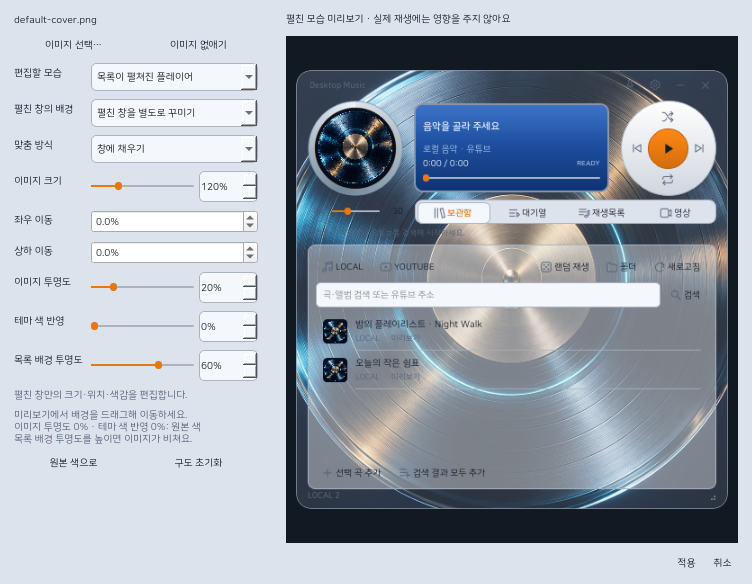
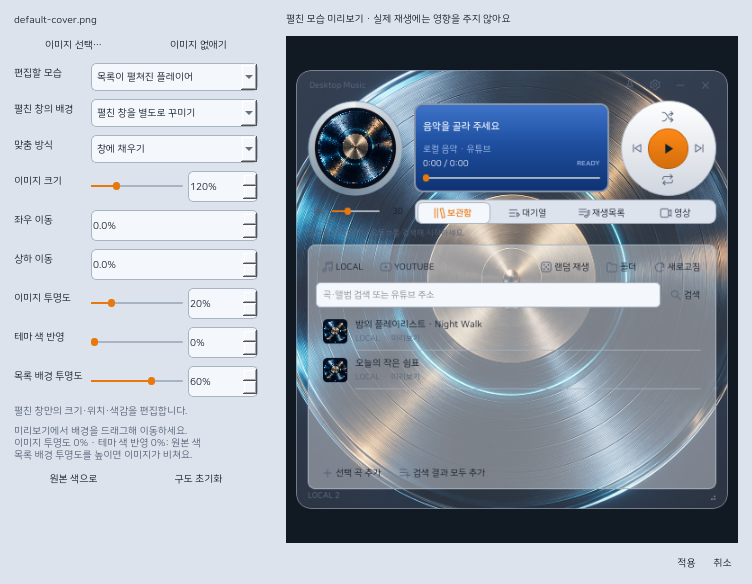
Preserve header image framing while closing and fix numeric field clipping

Changed region(s): [[0.0, 0.3082, 0.367, 0.8322]]

diff --git a/src/desktop_music_player/app.py b/src/desktop_music_player/app.py
@@ -273,10 +273,11 @@ class Window(QMainWindow):
             geometry=[(0,e,e,h-2*e),(w-e,e,e,h-2*e),(e,0,w-2*e,e),(e,h-e,w-2*e,e),(0,0,e,e),(w-e,0,e,e),(0,h-e,e,e),(w-e,h-e,e,e)]
             for handle,rect in zip(self.resize_handles,geometry):handle.setGeometry(*rect);handle.show();handle.raise_()
     def resizeEvent(self,event):
-        super().resizeEvent(event);self.layout_surface()
+        super().resizeEvent(event)
         if hasattr(self,'expanded') and self.expanded and not self._transitioning:
             self.saved_height=max(self.px(MIN_PANEL_HEIGHT),self.height()-self.px(EXPANDED_BASE));self.compact_height=min(self.compact_height,self.height())
         elif hasattr(self,'expanded') and not self.expanded and not self._transitioning:self.compact_height=max(self.px(COMPACT_HEIGHT),self.height())
+        self.layout_surface()
     def expand(self,name):
         tab=next((n for n in range(self.tabs.count()) if self.tabs.tabText(n)==name),0)
         close=self.expanded and self.tabs.currentIndex()==tab
@@ -425,7 +426,7 @@ class Window(QMainWindow):
             if isinstance(delegate,TrackDelegate):delegate.theme=t
             view.viewport().update()
         dark=QColor(t['panel']).lightness()<120;foreground='#081016' if QColor(t['accent']).lightness()>130 else '#FFFFFF'
-        base_style=f'''QWidget{{font-family:'NanumSquareRound','Malgun Gothic','Segoe UI Symbol';font-size:12px;color:{t['text']};}} QMainWindow,QDialog{{background:{t['bg']};}} QLabel{{background:transparent;}} QLabel#brand{{font-size:11px;font-weight:700;color:{t['muted']};}} QLabel#muted,QLabel#status{{color:{t['muted']};}} QLabel#status{{font-size:11px;}} QLabel#trackTitle{{font-size:14px;font-weight:700;}} QLabel#time{{font-family:'NanumSquareRound','Malgun Gothic';font-size:12px;}} QLabel#badge{{font-size:10px;font-weight:700;color:{t['muted']};}} QFrame#lcd{{background:{t['panel']};border:1px solid {t['border']};border-radius:10px;}} QFrame#pad{{background:qlineargradient(x1:0,y1:0,x2:0,y2:1,stop:0 {QColor(t['panel']).lighter(108).name()},stop:1 {QColor(t['bg']).darker(106).name()});border:1px solid {t['border']};border-radius:66px;}} QFrame#drawer{{background:{t['panel']};border:1px solid {t['border']};border-radius:10px;}} QPushButton{{background:transparent;border:1px solid transparent;border-radius:7px;padding:4px 6px;}} QPushButton:hover{{background:{t['panel']};border-color:{t['border']};}} QPushButton[iconOnly="true"]:hover{{border-color:transparent;}} QPushButton[keyboardFocus="true"]:focus{{border:1px solid {t['accent']};}} QPushButton[active="true"]{{color:{t['accent']};font-weight:700;}} QPushButton#play{{background:qlineargradient(x1:0,y1:0,x2:0,y2:1,stop:0 {QColor(t['accent']).lighter(114).name()},stop:1 {QColor(t['accent']).darker(110).name()});border:1px solid {QColor(t['accent']).darker(125).name()};border-radius:28px;}} QPushButton#play:pressed{{background:{QColor(t['accent']).darker(118).name()};}} QLineEdit,QComboBox,QSpinBox{{background:{t['panel']};border:1px solid {t['border']};border-radius:6px;padding:6px;}} QListView{{background:transparent;border:0;outline:0;}} QListView::item{{padding:7px 9px;border-bottom:1px solid {t['border']};}} QListView::item:selected{{background:{t['bg']};color:{t['text']};border-left:3px solid {t['accent']};}} QTabWidget::pane{{border:0;}} QTabBar::tab{{background:transparent;padding:8px 10px;color:{t['muted']};border-bottom:2px solid transparent;}} QTabBar::tab:selected{{color:{t['text']};border-bottom:2px solid {t['accent']};}} QSlider::groove:horizontal{{height:3px;background:{t['border']};border-radius:1px;}} QSlider::sub-page:horizontal{{background:{t['accent']};}} QSlider::handle:horizontal{{background:{t['accent']};width:9px;margin:-4px 0;border-radius:4px;}} QScrollBar:vertical{{background:transparent;width:7px;}} QScrollBar::handle:vertical{{background:{t['border']};border-radius:3px;min-height:24px;}} QScrollBar::add-line:vertical,QScrollBar::sub-line:vertical{{height:0;}} QMenu{{background:{t['panel']};padding:5px;}}'''
+        base_style=f'''QWidget{{font-family:'NanumSquareRound','Malgun Gothic','Segoe UI Symbol';font-size:12px;color:{t['text']};}} QMainWindow,QDialog{{background:{t['bg']};}} QLabel{{background:transparent;}} QLabel#brand{{font-size:11px;font-weight:700;color:{t['muted']};}} QLabel#muted,QLabel#status{{color:{t['muted']};}} QLabel#status{{font-size:11px;}} QLabel#trackTitle{{font-size:14px;font-weight:700;}} QLabel#time{{font-family:'NanumSquareRound','Malgun Gothic';font-size:12px;}} QLabel#badge{{font-size:10px;font-weight:700;color:{t['muted']};}} QFrame#lcd{{background:{t['panel']};border:1px solid {t['border']};border-radius:10px;}} QFrame#pad{{background:qlineargradient(x1:0,y1:0,x2:0,y2:1,stop:0 {QColor(t['panel']).lighter(108).name()},stop:1 {QColor(t['bg']).darker(106).name()});border:1px solid {t['border']};border-radius:66px;}} QFrame#drawer{{background:{t['panel']};border:1px solid {t['border']};border-radius:10px;}} QPushButton{{background:transparent;border:1px solid transparent;border-radius:7px;padding:4px 6px;}} QPushButton:hover{{background:{t['panel']};border-color:{t['border']};}} QPushButton[iconOnly="true"]:hover{{border-color:transparent;}} QPushButton[keyboardFocus="true"]:focus{{border:1px solid {t['accent']};}} QPushButton[active="true"]{{color:{t['accent']};font-weight:700;}} QPushButton#play{{background:qlineargradient(x1:0,y1:0,x2:0,y2:1,stop:0 {QColor(t['accent']).lighter(114).name()},stop:1 {QColor(t['accent']).darker(110).name()});border:1px solid {QColor(t['accent']).darker(125).name()};border-radius:28px;}} QPushButton#play:pressed{{background:{QColor(t['accent']).darker(118).name()};}} QLineEdit,QComboBox,QAbstractSpinBox{{background:{t['panel']};border:1px solid {t['border']};border-radius:6px;padding:6px;}} QAbstractSpinBox QLineEdit{{background:transparent;border:0;border-radius:0;padding:0;}} QListView{{background:transparent;border:0;outline:0;}} QListView::item{{padding:7px 9px;border-bottom:1px solid {t['border']};}} QListView::item:selected{{background:{t['bg']};color:{t['text']};border-left:3px solid {t['accent']};}} QTabWidget::pane{{border:0;}} QTabBar::tab{{background:transparent;padding:8px 10px;color:{t['muted']};border-bottom:2px solid transparent;}} QTabBar::tab:selected{{color:{t['text']};border-bottom:2px solid {t['accent']};}} QSlider::groove:horizontal{{height:3px;background:{t['border']};border-radius:1px;}} QSlider::sub-page:horizontal{{background:{t['accent']};}} QSlider::handle:horizontal{{background:{t['accent']};width:9px;margin:-4px 0;border-radius:4px;}} QScrollBar:vertical{{background:transparent;width:7px;}} QScrollBar::handle:vertical{{background:{t['border']};border-radius:3px;min-height:24px;}} QScrollBar::add-line:vertical,QScrollBar::sub-line:vertical{{height:0;}} QMenu{{background:{t['panel']};padding:5px;}}'''
         lcd_colors={'silver_blue':('#2B66C4','#0F3373','#EEF5FF','#A9C3EA','#8A97AA'),'midnight':('#10284F','#07132A','#DCE9FF','#8FA6CC','#243E62'),'warm_cream':('#3C6E86','#1C3B4B','#F6EEDF','#BFD3D9','#819A9E'),'visualizer':('#06191D','#020A0C','#E6FFF7','#86A8A0','#224B45')}
         a,b,text,muted,border=lcd_colors[t['id']]
         lcd_style=f"QFrame#lcd{{background:qlineargradient(x1:0,y1:0,x2:0,y2:1,stop:0 {a},stop:1 {b});border:2px solid {border};border-radius:12px;}} QFrame#lcd QLabel{{color:{text};}} QFrame#lcd QLabel#muted,QFrame#lcd QLabel#badge{{color:{muted};}}"

diff --git a/tests/test_background.py b/tests/test_background.py
@@ -44,4 +44,23 @@ class BackgroundTests(unittest.TestCase):
   surface=Surface();surface.resize(200,120);surface.set_theme({'bg':'#26374a','border':'#26374a'});values={**BACKGROUND_DEFAULTS,'background':str(self.image),'background_opacity':1,'background_tint':0};surface.configure_background(values);surface.show();QTest.qWait(20)
   def center():return surface.grab().toImage().pixelColor(100,60)
   self.assertEqual(center().name(),'#e53b28');values['background_tint']=1;surface.configure_background(values);self.assertEqual(center().name(),'#26374a');values['background_tint']=0;values['background_opacity']=0;surface.configure_background(values);self.assertNotEqual(center().name(),'#e53b28');surface.hide();surface.deleteLater()
+ def test_header_crop_is_stable_during_open_close_and_rapid_reversal(self):
+  w=self.w;image=QImage(240,360,QImage.Format_RGB32)
+  for y in range(360):
+   for x in range(240):image.setPixelColor(x,y,QColor(y%255,x%255,90))
+  image.save(str(self.image));w.config.update(background=str(self.image),background_opacity=1,background_expanded_mode='header',background_zoom=1.3,background_x=.1,background_y=-.1);w.apply_background(w.config)
+  points=[(170,30),(170,65),(170,100)]
+  def sample():
+   image=w.surface.cached_background.toImage();return [image.pixelColor(x,y).rgba() for x,y in points]
+  baseline=sample()
+  for _ in range(2):
+   w.expand('보관함');self.assertEqual(sample(),baseline)
+   for _ in range(12):QTest.qWait(20);self.assertEqual(sample(),baseline)
+   w.expand('보관함');self.assertEqual(sample(),baseline)
+   for _ in range(12):QTest.qWait(20);self.assertEqual(sample(),baseline)
+  w.expand('보관함');QTest.qWait(45);w.expand('보관함');QTest.qWait(40);w.expand('보관함');w.finish_transition();self.assertEqual(sample(),baseline)
+ def test_header_reference_follows_direct_compact_height_resize(self):
+  w=self.w;w.config.update(background=str(self.image),background_expanded_mode='header');w.apply_background(w.config);w.resize(w.width(),w.height()+60);QTest.qWait(25)
+  self.assertEqual(w.surface.compact_reference,w.compact_height);self.assertEqual(w.compact_height,w.height())
+  before=w.surface.compact_reference;w.expand('보관함');QTest.qWait(30);w.expand('보관함');w.finish_transition();self.assertEqual(w.surface.compact_reference,before)
 if __name__=='__main__':unittest.main()

diff --git a/tests/test_appearance_layout.py b/tests/test_appearance_layout.py
@@ -1,0 +1,30 @@
+import os,sys,tempfile,unittest
+from pathlib import Path
+os.environ['QT_QPA_PLATFORM']='offscreen'
+sys.path.insert(0,str(Path(__file__).resolve().parents[1]/'src'))
+from PySide6.QtWidgets import QApplication,QAbstractSpinBox,QStyle,QStyleOptionFrame
+from PySide6.QtTest import QTest
+from desktop_music_player.app import Window,configure_fonts
+from desktop_music_player.storage import Store
+from desktop_music_player.settings_editor import SettingsEditor
+from desktop_music_player.background_editor import BackgroundEditor
+class AppearanceLayoutTests(unittest.TestCase):
+ @classmethod
+ def setUpClass(cls):cls.app=QApplication.instance() or QApplication([]);configure_fonts()
+ def test_numeric_text_fits_at_dialog_scales_and_all_themes(self):
+  with tempfile.TemporaryDirectory() as temp:
+   w=Window(Store(temp),demo=True);w.show();QTest.qWait(25)
+   for factor in (.5,.8,1,1.5):
+    w.set_ui_scale(factor,persist=False)
+    for theme in w.themes:
+     w.config['theme']=theme['id'];w.apply_theme()
+     for editor in (SettingsEditor,BackgroundEditor):
+      d=editor(w);d.show();QTest.qWait(15)
+      for spin in d.findChildren(QAbstractSpinBox):
+       if spin.window()!=d:continue
+       spin.setValue(spin.maximum());spin.ensurePolished();edit=spin.lineEdit();option=QStyleOptionFrame();option.initFrom(edit);contents=edit.style().subElementRect(QStyle.SE_LineEditContents,option,edit);m=edit.textMargins();metrics=edit.fontMetrics()
+       for value in (spin.minimum(),spin.maximum()):
+        spin.setValue(value);text=spin.text();self.assertGreaterEqual(contents.width()-m.left()-m.right(),metrics.horizontalAdvance(text)+2,(factor,theme['id'],text,contents))
+       self.assertGreaterEqual(contents.height()-m.top()-m.bottom(),metrics.height(),(factor,theme['id'],spin.text(),contents))
+      d.reject();d.deleteLater();QTest.qWait(15)
+   w.engine.stop();w.hide();w.deleteLater();QTest.qWait(25)

diff --git a/src/desktop_music_player/widgets.py b/src/desktop_music_player/widgets.py
@@ -60,7 +60,9 @@ class Surface(QWidget):
         if self.width()<=0 or self.height()<=0:return
         values=dict(self.background);expanded_mode=values.get('background_expanded_mode','follow')
         if self.expanded_view and expanded_mode=='custom':values.update(values.get('background_expanded') or {})
-        rh=self.compact_reference if self.expanded_view and expanded_mode=='header' else self.height()
+        # Closing flips expanded_view before the height animation finishes.
+        # Header framing must keep the compact reference in both directions.
+        rh=self.compact_reference if expanded_mode=='header' else self.height()
         # Changes to an inactive expanded profile do not repaint the real compact window.
         transform=tuple(values.get(key,default) for key,default in [('background_fit','cover'),('background_zoom',1),('background_x',0),('background_y',0),('background_opacity',.3),('background_tint',0)]) if not self.image.isNull() else ()
         key=(self.width(),self.height(),self.devicePixelRatioF(),self.theme.get('id'),self.theme.get('bg'),self.theme.get('border'),self.image.cacheKey(),rh if transform else None,transform)

diff --git a/src/desktop_music_player/background_editor.py b/src/desktop_music_player/background_editor.py
@@ -81,7 +81,7 @@ class BackgroundEditor(QDialog):
     def can_edit_transform(self):return self.view.currentIndex()==0 or self.draft['background_expanded_mode']=='custom'
     def percent_control(self,form,label,low,high,value):
         row=QWidget();layout=QHBoxLayout(row);layout.setContentsMargins(0,0,0,0);layout.setSpacing(6)
-        slider=QSlider(Qt.Horizontal);slider.setRange(low,high);slider.setValue(value);slider.setAccessibleName(label);spin=QSpinBox();spin.setRange(low,high);spin.setSuffix('%');spin.setValue(value);spin.setFixedWidth(74)
+        slider=QSlider(Qt.Horizontal);slider.setRange(low,high);slider.setValue(value);slider.setAccessibleName(label);spin=QSpinBox();spin.setRange(low,high);spin.setSuffix('%');spin.setValue(value);spin.setMinimumWidth(88)
         slider.valueChanged.connect(spin.setValue);spin.valueChanged.connect(slider.setValue);layout.addWidget(slider,1);layout.addWidget(spin);form.addRow(label,row);spin.slider=slider;return spin
     def schedule_preview(self):
         # Throttle to the newest draft each frame; continuous dragging never

diff --git a/src/desktop_music_player/settings_editor.py b/src/desktop_music_player/settings_editor.py
@@ -49,7 +49,7 @@ class SettingsEditor(QDialog):
         a=QLabel(str(low)+'%');b=QLabel(str(high)+'%')
         for text in (a,b):text.setObjectName('muted')
         slider=QSlider(Qt.Horizontal);slider.setRange(low,high);slider.setSingleStep(step);slider.setPageStep(10);slider.setValue(value);slider.setAccessibleName(label)
-        spin=QSpinBox();spin.setRange(low,high);spin.setSingleStep(step);spin.setSuffix('%');spin.setValue(value);spin.setFixedWidth(74);spin.setAccessibleName(label)
+        spin=QSpinBox();spin.setRange(low,high);spin.setSingleStep(step);spin.setSuffix('%');spin.setValue(value);spin.setMinimumWidth(88);spin.setAccessibleName(label)
         slider.valueChanged.connect(spin.setValue);spin.valueChanged.connect(slider.setValue)
         for widget in (a,slider,b,spin):layout.addWidget(widget,1 if widget is slider else 0)
         form.addRow(label,row);spin.slider=slider;return spin

diff --git a/tools/Launcher.cs b/tools/Launcher.cs
@@ -3,7 +3,7 @@ using System.Diagnostics;
 using System.IO;
 using System.Windows.Forms;
 [assembly: System.Reflection.AssemblyTitle("Desktop Music Player")]
-[assembly: System.Reflection.AssemblyVersion("0.1.4.0")]
+[assembly: System.Reflection.AssemblyVersion("0.1.5.0")]
 class Launcher {
  [STAThread] static void Main() {
   string root=AppDomain.CurrentDomain.BaseDirectory;

diff --git a/src/desktop_music_player/__init__.py b/src/desktop_music_player/__init__.py
@@ -1,2 +1,2 @@
 """Desktop Music Player."""
-__version__="0.1.4"
+__version__="0.1.5"

diff --git a/docs/release-notes.md b/docs/release-notes.md
@@ -1,10 +1,9 @@
-배경 이미지 확대·이동 중 끊김과 클릭 후 남던 아이콘 테두리를 개선했습니다.
+접을 때 배경 이미지가 순간 늘어나는 현상과 숫자 입력칸 잘림을 수정했습니다.
 
-- 배경 편집마다 목록 스타일을 다시 적용해 전체 곡 목록을 재배치하던 원인을 제거했습니다.
-- 연속 드래그 중에도 최신 구도를 약 30fps로 미리 보여 주고, 동일 구도와 비활성 배경 설정의 재계산을 생략합니다.
-- 창 투명도·전체 UI 배율 조절도 중복 스타일 적용과 동기 목록 배치를 줄였습니다.
-- 마우스 클릭 후 남던 아이콘 포커스 테두리를 없앴습니다. Tab 키 포커스 표시는 유지합니다.
-- 4K 이미지·12,926곡 가상 목록 테스트: 확대 중앙값120.80→4.85ms, 이동121.58→4.89ms. 하드웨어·화면 크기에 따라 다릅니다.
-- 36개 회귀 검사, 목록 마지막 곡 선택·검색, 설정 취소 복원, 실제 EXE 오디오·비주얼라이저 검증.
+- ‘윗부분 이미지 구도 유지’에서 펼치기·접기 모두 접힌 창 높이를 기준으로 이미지 구도를 유지합니다.
+- 가장자리 드래그로 접힌 창 높이를 바꾸면 배경 기준 높이도 즉시 갱신합니다.
+- 전체 UI 배율·배경 편집 숫자 입력칸의 이중 여백과 좁은 고정 폭을 수정했습니다. 음수·소수·%도 표시됩니다.
+- 39개 회귀 검사: 애니메이션 프레임의 배경 픽셀 유지, 빠른 방향 전환, 모든 테마와 UI 배율의 숫자 영역 크기 검사.
+- 125%·150% 화면 배율에서도 숫자 영역 검사를 통과했습니다. 개인 설정과 재생목록을 보존해 업데이트합니다.
 
-ZIP을 풀고 DesktopMusicPlayer.exe를 실행하세요. 프로그램 폴더 전체가 필요합니다. 개인 설정·음악·로그인 도구는 배포에서 제외합니다.
+ZIP을 풀고 DesktopMusicPlayer.exe를 실행하세요. 프로그램 폴더 전체가 필요합니다. 개인 데이터와 로그인 도구는 배포에서 제외합니다.

diff --git a/README.md b/README.md
@@ -53,7 +53,9 @@
 
 배경 편집은 최신 입력을 약 30fps로 반영하고, 같은 목록 스타일과 이미지 구도는 다시 계산하지 않습니다. 생성한 4K 이미지·12,926곡 가상 목록으로 측정했을 때 확대/이동 갱신 중앙값이 약 121ms에서 5ms로 줄었습니다. 측정 도구는 `python tools/measure_editing.py`이며 PC와 화면 크기에 따라 결과가 달라집니다. 마우스 클릭 후 아이콘의 포커스 테두리가 남지 않고 Tab 키로 이동할 때는 표시됩니다.
 
-최종 검증 기록은 `docs/verification.json`에 있습니다. 36개 회귀 검사, 50~150% UI 배율과 Windows 125%·150% DPI, 실제 YouTube 두 곡의 영상 전환·탐색·일시정지 검사를 통과했습니다. 이번 8초 측정에서 오디오 메모리는 약 144MB, 백그라운드 재생 CPU는 평균 0.38%였습니다. CPU는 논리 코어 하나를 100%로 계산하며 PC·저장장치·백그라운드 작업에 따라 달라집니다. 12,926곡 전체 폴더 검사에는 이번 측정에서 9.16초가 걸렸고 시작 시 저장된 보관함 캐시를 우선 사용합니다.
+윗부분 이미지 구도 유지 모드는 펼치기·접기 애니메이션 동안 같은 구도를 사용합니다. 설정·배경 편집의 숫자 입력칸은 내부 여백을 중복 적용하지 않고, 최대값과 % 표시가 들어갈 폭을 확보합니다.
+
+최종 검증 기록은 `docs/verification.json`에 있습니다. 39개 회귀 검사, 50~150% UI 배율과 Windows 125%·150% DPI, 실제 YouTube 두 곡의 영상 전환·탐색·일시정지 검사를 통과했습니다. 이번 8초 측정에서 오디오 메모리는 약 144MB, 백그라운드 재생 CPU는 평균 0.38%였습니다. CPU는 논리 코어 하나를 100%로 계산하며 PC·저장장치·백그라운드 작업에 따라 달라집니다. 12,926곡 전체 폴더 검사에는 이번 측정에서 9.16초가 걸렸고 시작 시 저장된 보관함 캐시를 우선 사용합니다.
 
 ## 디자인 협업
 
